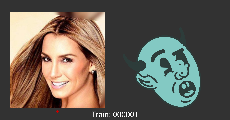
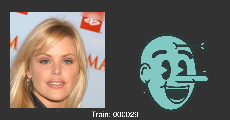
see read.me

diff --git a/face.js b/face.js
@@ -89,28 +89,25 @@ function Face() {
   this.averageRightEyeBrow = segment_average(positions.right_eyebrow)
   this.averageLeftEyeBrow = segment_average(positions.left_eyebrow)
 
+  this.averageTopLip = segment_average(positions.top_lip)
+  this.averageBottomLip = segment_average(positions.bottom_lip)
+  this.averageChin = segment_average(positions.chin)
+
   /* plug it in like 
 
   Ellipse(this.averageRightEye[0], this.averageRightEye[1], 1, 1) */
     
-  this.ReyeX = positions.right_eye[0][0] //plug this into positions for eye x and y right
+  this.ReyeX = positions.right_eye[0][0] 
   this.ReyeY = positions.right_eye[0][1]
 
-  this.LeyeX = positions.left_eye[0][0] //plug this into positions for eye x and y left
+  this.LeyeX = positions.left_eye[0][0] 
   this.LeyeY = positions.left_eye[0][1]
-    
-  fill(255)
-  ellipse(this.averageRightEye[0],this.averageRightEye[1],4,4)
-  
-    console.log()
-    
+
+  this.cheekTopLeft = positions.top_lip[7][0]
+
     ///MY CODE starts here
      push()
     scale(0.3)
-
-
-    
-    
 
     /*FACE SETUP***/
 
@@ -131,7 +128,7 @@ function Face() {
 
     /*EYES*********************/
 
-    if (this.eyeType == 1){ // surpised/ eyebrows raised expression
+    if (this.eyeType == 1){ // surpised/ eyebrows raised expression HAS POSTIONS
 
       strokeWeight(1);
       stroke(DarkAqua_const);
@@ -139,89 +136,138 @@ function Face() {
 
       //LEFT EYE
       
-      push(); // push and pop to contain translate in order to use it twice
-      translate(this.averageLeftEye[1],this.averageLeftEye[0]) // the arrays have to be the other way aroun with translate
-      ellipse(-1,-2, 1.5, 4) // left eye
+       // push and pop to contain translate in order to use it twice
+      //translate(this.averageLeftEye[1],this.averageLeftEye[0]) // the arrays have to be the other way aroun with translate
+      ellipse(this.averageLeftEye[0]-.5,this.averageLeftEye[1], 1.5, 4) // left eye -1,-2
       
       noStroke();
       fill(DirtyAqua_const); 
-      triangle(-3.5,-3, -3.5,-.5,-0.5,-1.5,) // left eye indent
-      pop();
+      triangle(this.averageLeftEye[0]-3.5,this.averageLeftEye[1]+2.5,this.averageLeftEye[0]-3.5,this.averageLeftEye[1]-2,this.averageLeftEye[0],this.averageLeftEye[1],) // left eye indent
+      // remove the maths for the middle point of the trianlge. -3 to +3 for bottom point.
 
       //RIGHT EYE
-      push(); // push and pop to contain translate in order to use it twice
-      translate(this.averageRightEye[1],this.averageRightEye[0]) // the arrays have to be the other way aroun with translate
+       // push and pop to contain translate in order to use it twice
+     // translate(this.averageRightEye[1],this.averageRightEye[0]) // the arrays have to be the other way aroun with translate
      // you might have to do the maths instead as this will be too hard to figure out with translate.
       stroke(DarkAqua_const);
       fill(DarkAqua_const);
-      ellipse(3.5,-2, 1.5, 4) // right eye
+      ellipse(this.averageRightEye[0]+2,this.averageRightEye[1], 1.5, 4) // right eye 3.5, -2
 
       noStroke();
       fill(DirtyAqua_const); 
-      triangle(1,-3, 1,-0.5,4,-1.5,) // right eye indent
-      pop();
-
-
+      triangle(this.averageRightEye[0],this.averageRightEye[1]-1.5, this.averageRightEye[0],this.averageRightEye[1]+1.5,this.averageRightEye[0]+2.5,this.averageRightEye[1]) // right eye indent
+      
       //EYEBROWS
       strokeWeight(1); /// thicker for brows
       stroke(DarkAqua_const);
+
+      //LEFT
       
       noFill(); 
-      push();
-      translate(this.averageLeftEyeBrow[1],this.averageLeftEyeBrow[0])
-      arc(-1,-4.5,5,3,3.3,5) //left eyebrow raised
-      pop();
+      // push();
+      // translate(this.averageLeftEyeBrow[1],this.averageLeftEyeBrow[0])
+      arc(this.averageLeftEyeBrow[0]-1,this.averageLeftEyeBrow[1]-2.5,5,3,3.3,5) //left eyebrow raised -1, -4
+      // pop();
 
-      push();
-      translate(this.averageRightEyeBrow[1],this.averageRightEyeBrow[0])
-      arc(3.5,-4.5,5,3,4.5,6.2) //left eyebrow raised
-      pop();
+      //RIGHT 
+      // push();
+      // translate(this.averageRightEyeBrow[1],this.averageRightEyeBrow[0])
+      arc(this.averageRightEyeBrow[0]+1.5,this.averageRightEyeBrow[1]-2.5,5,3,4.5,6.2) //left eyebrow raised 3.5,-4.5
+      // pop();
     
   }
 
-  else if (this.eyeType == 4){ // suspicious / confused eyes
+  else if (this.eyeType == 3){ // suspicious / confused eyes
       strokeWeight(1);
       stroke(DarkAqua_const);
       fill(DarkAqua_const);
-      ellipse(-1,-2, 1.5, 4) // left eye
-    
-      ellipse(3.5,-2, 1.5, 4) // right eye
 
-      noStroke();
-
-      fill(DirtyAqua_const); 
-      triangle(-3.5,-3, -3.5,-.5,-0.5,-1.5,) // left eye indent
-      triangle(1,-3, 1,-0.5,4,-1.5,) // right eye indent
+    //LEFT EYE
       
-      stroke(DarkAqua_const);
+    // push(); // push and pop to contain translate in order to use it twice
+    // translate(this.averageLeftEye[1],this.averageLeftEye[0]) // the arrays have to be the other way aroun with translate
+    ellipse(this.averageLeftEye[0]-.5,this.averageLeftEye[1], 1.5, 4) // left eye -1,-2
+    
+    noStroke();
+    fill(DirtyAqua_const); 
+    triangle(this.averageLeftEye[0]-3.5,this.averageLeftEye[1]+2.5,this.averageLeftEye[0]-3.5,this.averageLeftEye[1]-2,this.averageLeftEye[0],this.averageLeftEye[1],) // left eye indent
+
+    stroke(DarkAqua_const);
       fill(DirtyAqua_const); 
       strokeWeight(.4);
 
-      arc(-1,1,3,3,3.85,5.5) //bottom left eye beam line
-      arc(3.5,1,3,3,3.85,5.5)//bottom right eye beam line
+      arc(this.averageLeftEye[0]-.35,this.averageLeftEye[1]+3,3,3,3.85,5.5) //bottom left eye beam line -1, 1
+    // pop();
 
+    //RIGHT EYE
+    // push(); // push and pop to contain translate in order to use it twice
+    // translate(this.averageRightEye[1],this.averageRightEye[0]) // the arrays have to be the other way aroun with translate
+   // you might have to do the maths instead as this will be too hard to figure out with translate.
+   strokeWeight(1);
+   stroke(DarkAqua_const);
+    fill(DarkAqua_const);
+    ellipse(this.averageRightEye[0]+2,this.averageRightEye[1], 1.5, 4) // right eye 3.5, -2
+
+
+    noStroke();
+    fill(DirtyAqua_const); 
+    triangle(this.averageRightEye[0],this.averageRightEye[1]-1.5, this.averageRightEye[0],this.averageRightEye[1]+1.5,this.averageRightEye[0]+2.5,this.averageRightEye[1]) // right eye indent
+      
+    stroke(DarkAqua_const);
+    fill(DirtyAqua_const); 
+    strokeWeight(.4);
+
+    arc(this.averageRightEye[0]+2.1,this.averageRightEye[1]+3,3,3,3.85,5.5)//bottom right eye beam line 3.5,1
+    // pop();
+
+    //EYEBROWS
+    // push();
+    //   translate(this.averageLeftEyeBrow[1],this.averageLeftEyeBrow[0])
       strokeWeight(1); /// thicker for brows
-
-      arc(3.5,-5,5,2,7,2.5) // right eyebrow concerned
       noFill(); 
-      arc(-1,-4.5,5,3,3.3,5.4) //left eyebrow raised
+      arc(this.averageLeftEyeBrow[0]-.5,this.averageLeftEyeBrow[1]-2,5,3,3.3,5.4) //left eyebrow raised -1,-4.5
+      // pop();
+
+      // push();
+      // translate(this.averageRightEyeBrow[1],this.averageRightEyeBrow[0])
+      strokeWeight(1); /// thicker for brows
+      noFill(); 
+      arc(this.averageRightEyeBrow[0]+3,this.averageRightEyeBrow[1]-3.5,5,2,7,2.5) // right eyebrow concerned 3.5,-5
+      // pop();
+      
+     
+      
+     
      
   }
 
-  else if (this.eyeType == 3){ // sad, scared and tired eyes
+  else if (this.eyeType == 2){ // sad, scared and tired eyes
       /**Eyes */
       strokeWeight(1);
       stroke(DarkAqua_const);
       fill(DarkAqua_const);
-      ellipse(-1,-2, 1.5, 4) // left eye
+    //LEFT EYE
+      
+    // push(); // push and pop to contain translate in order to use it twice
+    // translate(this.averageLeftEye[1],this.averageLeftEye[0]) // the arrays have to be the other way aroun with translate
+    ellipse(this.averageLeftEye[0]-.5,this.averageLeftEye[1], 1.5, 4) // left eye -1,-2
     
-      ellipse(3.5,-2, 1.5, 4) // right eye
+    noStroke();
+    fill(DirtyAqua_const); 
+    triangle(this.averageLeftEye[0]-3.5,this.averageLeftEye[1]+2.5,this.averageLeftEye[0]-3.5,this.averageLeftEye[1]-2,this.averageLeftEye[0],this.averageLeftEye[1],) // left eye indent
 
-      noStroke();
+    //RIGHT EYE
+    // push(); // push and pop to contain translate in order to use it twice
+    // translate(this.averageRightEye[1],this.averageRightEye[0]) // the arrays have to be the other way aroun with translate
+   // you might have to do the maths instead as this will be too hard to figure out with translate.
+   stroke(DarkAqua_const);
+   fill(DarkAqua_const);
+   ellipse(this.averageRightEye[0]+2,this.averageRightEye[1], 1.5, 4) // right eye 3.5, -2
 
-      fill(DirtyAqua_const); 
-      triangle(-3.5,-3, -3.5,-.5,-0.5,-1.5,) // left eye indent
-      triangle(1,-3, 1,-0.5,4,-1.5,) // right eye indent
+   noStroke();
+   fill(DirtyAqua_const); 
+   triangle(this.averageRightEye[0],this.averageRightEye[1]-1.5, this.averageRightEye[0],this.averageRightEye[1]+1.5,this.averageRightEye[0]+2.5,this.averageRightEye[1]) // right eye indent
+
       /**Eyebrows/skin */
       noFill()
       strokeWeight(.4)
@@ -235,27 +281,28 @@ function Face() {
       strokeWeight(1); /// thicker for brows
       fill(DirtyAqua_const); // fill for cover the eye bpart
 
-      arc(4.5,-4.7,3.5,3.5,7.7,3.3) // right eyebrow sad
-      arc(-2,-4.7,3.5,3.5,6.1,1.8) // left eyebrow sad
+      arc(this.averageRightEyeBrow[0]+3,this.averageRightEyeBrow[1]-3,3.5,3.5,7.7,3.3) // right eyebrow sad 4.5,-4.7
+      arc(this.averageRightEyeBrow[0]-3,this.averageRightEyeBrow[1]-3,3.5,3.5,6.1,1.8) // left eyebrow sad-2,-4
       noFill(); 
   }
 
-else if (this.eyeType == 2){ // dead eyes
+else if (this.eyeType == 4){ // dead eyes
  
    /**Eyes */
    strokeWeight(1);
    stroke(DarkAqua_const);
    fill(DarkAqua_const);
-  
-   line(-2,-3.5,0,-0.5) // left x line 1
-   line(0,-3.5,-2,-0.5) // left x line 2
+  //left
+   line(this.averageLeftEye[0]-1.25,this.averageLeftEye[1]-2.5,this.averageLeftEye[0]+.85,this.averageLeftEye[1]+.5) // left x line //-2,-3.5,0,-0.5
+   line(this.averageLeftEye[0]+.85,this.averageLeftEye[1]-2.5,this.averageLeftEye[0]-1.25,this.averageLeftEye[1]+.5) // left x line 2 //0,-3.5,-2,-0.5
 
-   line(2.5,-3.5,4.5,-0.5) // right x line 1
-   line(4.5,-3.5,2.5,-0.5) // right x line 2
+   //right
+   line(this.averageRightEye[0]+1.75,this.averageRightEye[1]-2.60,this.averageRightEye[0]+3.85,this.averageRightEye[1]+.5) // right x line 1 //2.5,-3.5,4.5,-0.5
+   line(this.averageRightEye[0]+3.85,this.averageRightEye[1]-2.60,this.averageRightEye[0]+1.75,this.averageRightEye[1]+.5) // right x line 2 //4.5,-3.5,2.5,-0.5
 
    noFill(); 
-   arc(-1,-4,10,3,3.6,5) //left eyebrow raised
-   arc(3.5,-4,10,3,4.5,5.75) //left eyebrow raised
+   arc(this.averageLeftEyeBrow[0],this.averageLeftEyeBrow[1]-2.75,10,3,3.6,5) //left eyebrow raised -1, -4
+   arc(this.averageRightEyeBrow[0]+3,this.averageRightEyeBrow[1]-2.75,10,3,4.5,5.75) //right eyebrow raised 3.5, -4
    
 }
 
@@ -273,7 +320,7 @@ if (this.mouthType == 1){ // happy chapy mouth
 
   arc(1.5, 4, 5.6, 5, 0, PI, PI + QUARTER_PI); // mouth darkness
   noFill();
-  arc(-2.7, 2, 3, 3, 0, HALF_PI); // left cheek outline
+  arc(-2.7, 2, 3, 3, 0, HALF_PI); // left cheek outline -2.7
 }
 
 else if (this.mouthType == 2){ // whistle mouth
@@ -350,7 +397,7 @@ if (this.noseType == 1){ // basic ball nose
 
 }
 
-else if (this.noseType == 2){ // pinocchio nose
+else if (this.noseType == 4){ // pinocchio nose
   stroke(DarkAqua_const);
   fill(DirtyAqua_const);
   strokeWeight(.4);
@@ -378,7 +425,7 @@ stroke(DarkAqua_const);
   arc(2.2,2.5,1,1.2,4,6) // nose under curve
 }
 
-else if (this.noseType == 4){ // pimple nose
+else if (this.noseType == 2){ // pimple nose
   stroke(DarkAqua_const);
   fill(DirtyAqua_const)
   strokeWeight(.4);
@@ -665,7 +712,7 @@ strokeWeight(.7)
   this.setProperties = function(settings) {
     this.eyeType = int(map(settings[0], 0, 100, 1, 4));
     this.mouthType = int(map(settings[1], 0, 100, 1, 4));
-     this.noseType = int(map(settings[2], 0, 100, 1,4));
+     this.noseType = int(map(settings[2], 0, 100, 0,4)); // change back to 1 for start of map
     this.earType = int(map(settings[3], 0, 100, 1, 4));
     this.extraType = int(map(settings[4], 0, 100, 1, 4));
   }

diff --git a/README.md b/README.md
@@ -21,3 +21,7 @@ I have successfully implemented my code into my design!! The arcs were very diff
 Fixed the angle mode problem in which the face points were jumbled and my code was doing somersaults. Each of the sliders are now working perfectly with each facial feature and they are named. The next step is to get the positions working and train the machine learning. I would also like to do something cool with colour but I’m not sure if that is possible within my timeframe.
 
 started implementing the postions into the first set f eyes. I realsied it needs trranslate so i dont have to do heaps of math. This also requires push and pops.
+
+24/03
+
+The positions are harded to do than I thought. Originally I thought i could merely translate each group of shapes that needed to be put together. this for some reason only worked for the first face that my design was mapped to. It did not work for any others. This meant I had to use another method which is the strategy I’m currently sitting at. It involves mapping every single shape on every variation of facial features. Whilst this works, it is taking a very long time. I spent about 4 hours on this today and i have only just finished doing the eyes. I believe I need to figure something else out or limit my design and its features. 
